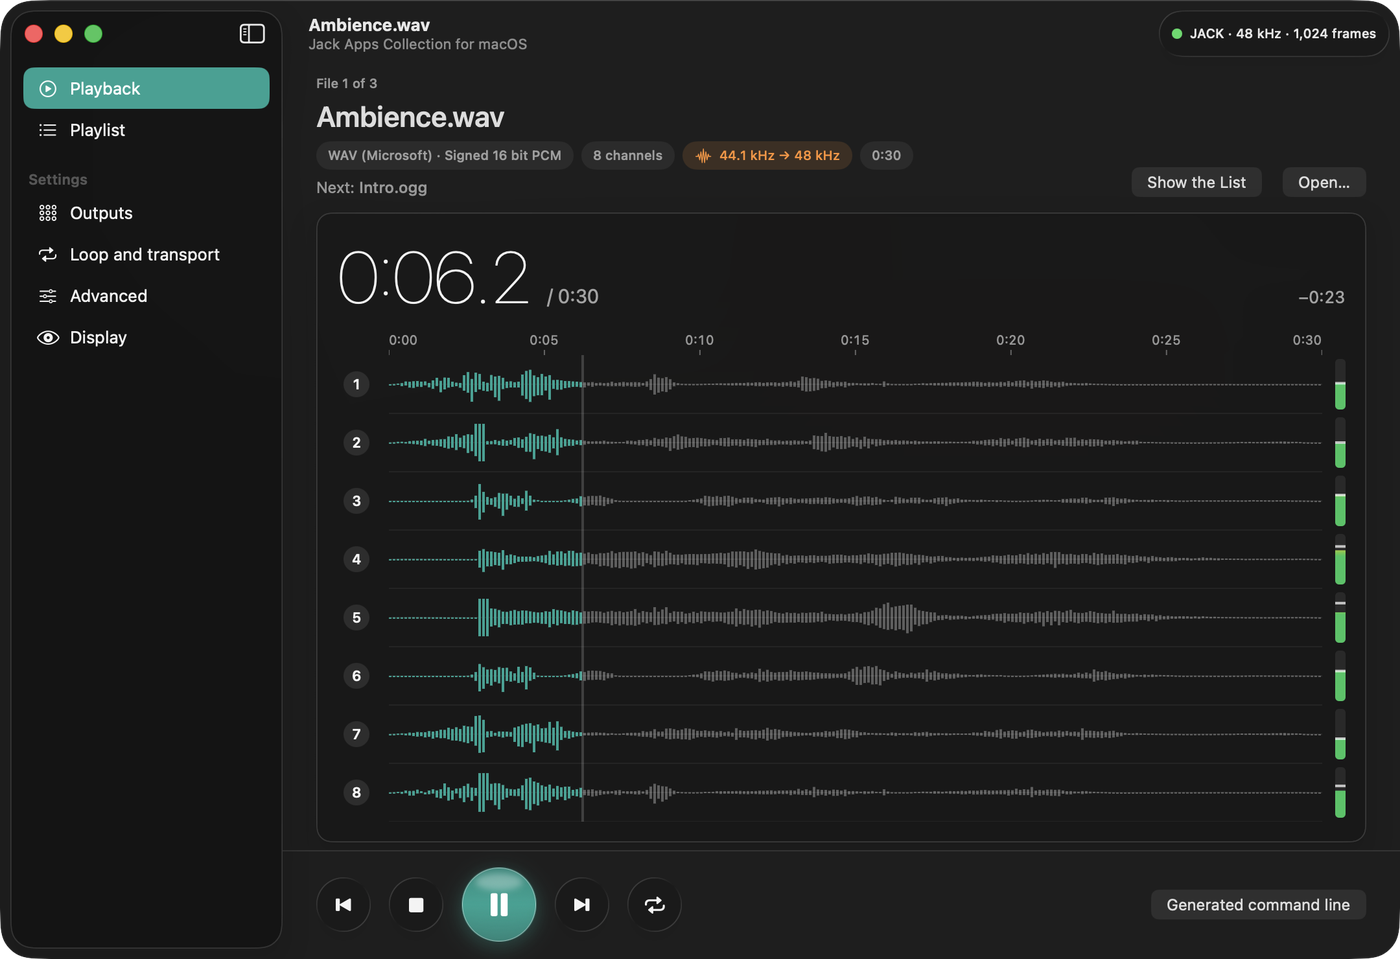
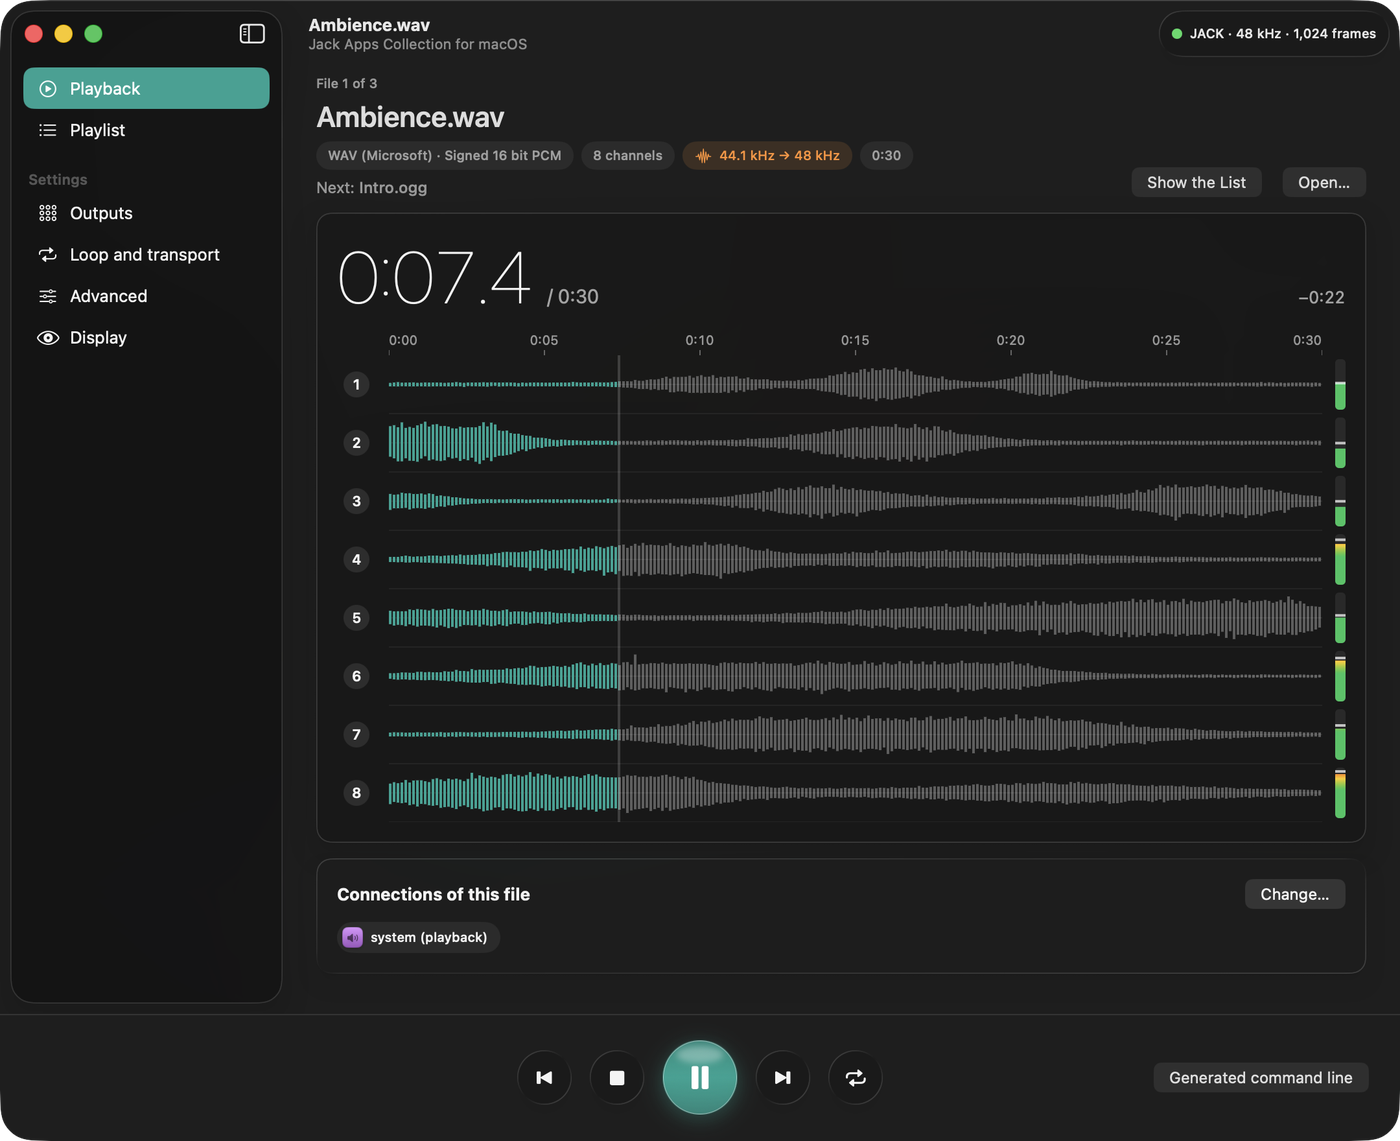
[jack-apps] docs: Jack Play screenshots with the new footer, settings pages in a table

diff --git a/jack_play/README.md b/jack_play/README.md
@@ -52,7 +52,16 @@ Each file is played by a program of its own, a JACK client named after its place
 ## All the options of jack_play
 
 <div align="center">
-  <img src="screenshots/settings.png" width="760" alt="The settings pages">
+<table>
+<tr>
+<td align="center"><img src="screenshots/outputs.png" width="380" alt="Outputs"><br><sub>Outputs</sub></td>
+<td align="center"><img src="screenshots/loop.png" width="380" alt="Loop and transport"><br><sub>Loop and transport</sub></td>
+</tr>
+<tr>
+<td align="center"><img src="screenshots/advanced.png" width="380" alt="Advanced"><br><sub>Advanced</sub></td>
+<td align="center"><img src="screenshots/display.png" width="380" alt="Display"><br><sub>Display</sub></td>
+</tr>
+</table>
 </div>
 
 Repeat (none, the file or the list), resampling quality, playback buffer, JACK client name, the way to play (on its own or with the JACK transport), and where the levels are shown. The generated command line can be shown at any time. The program is also usable alone, and keeps all its options:
